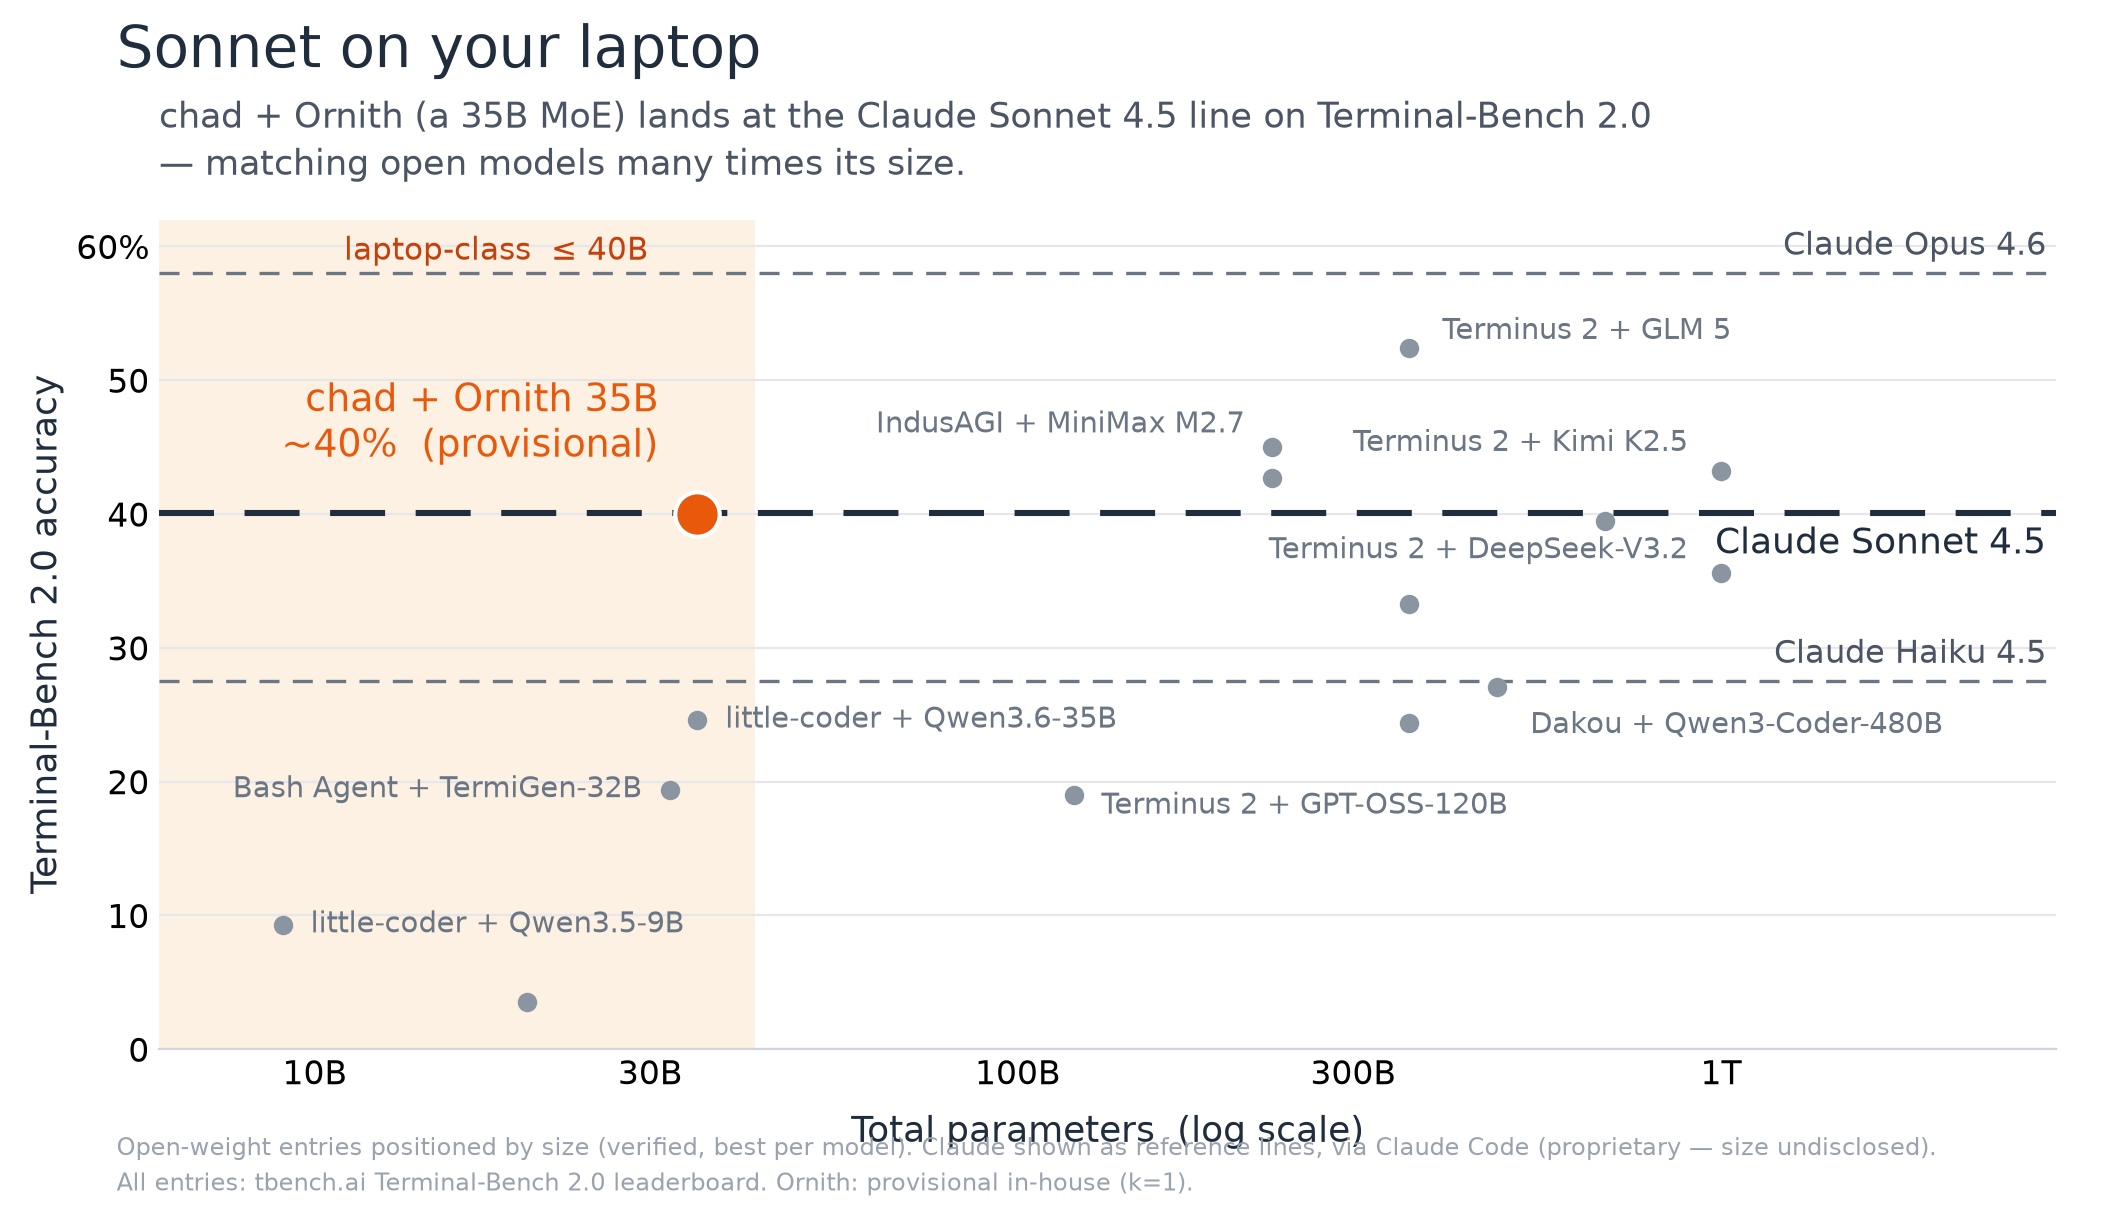
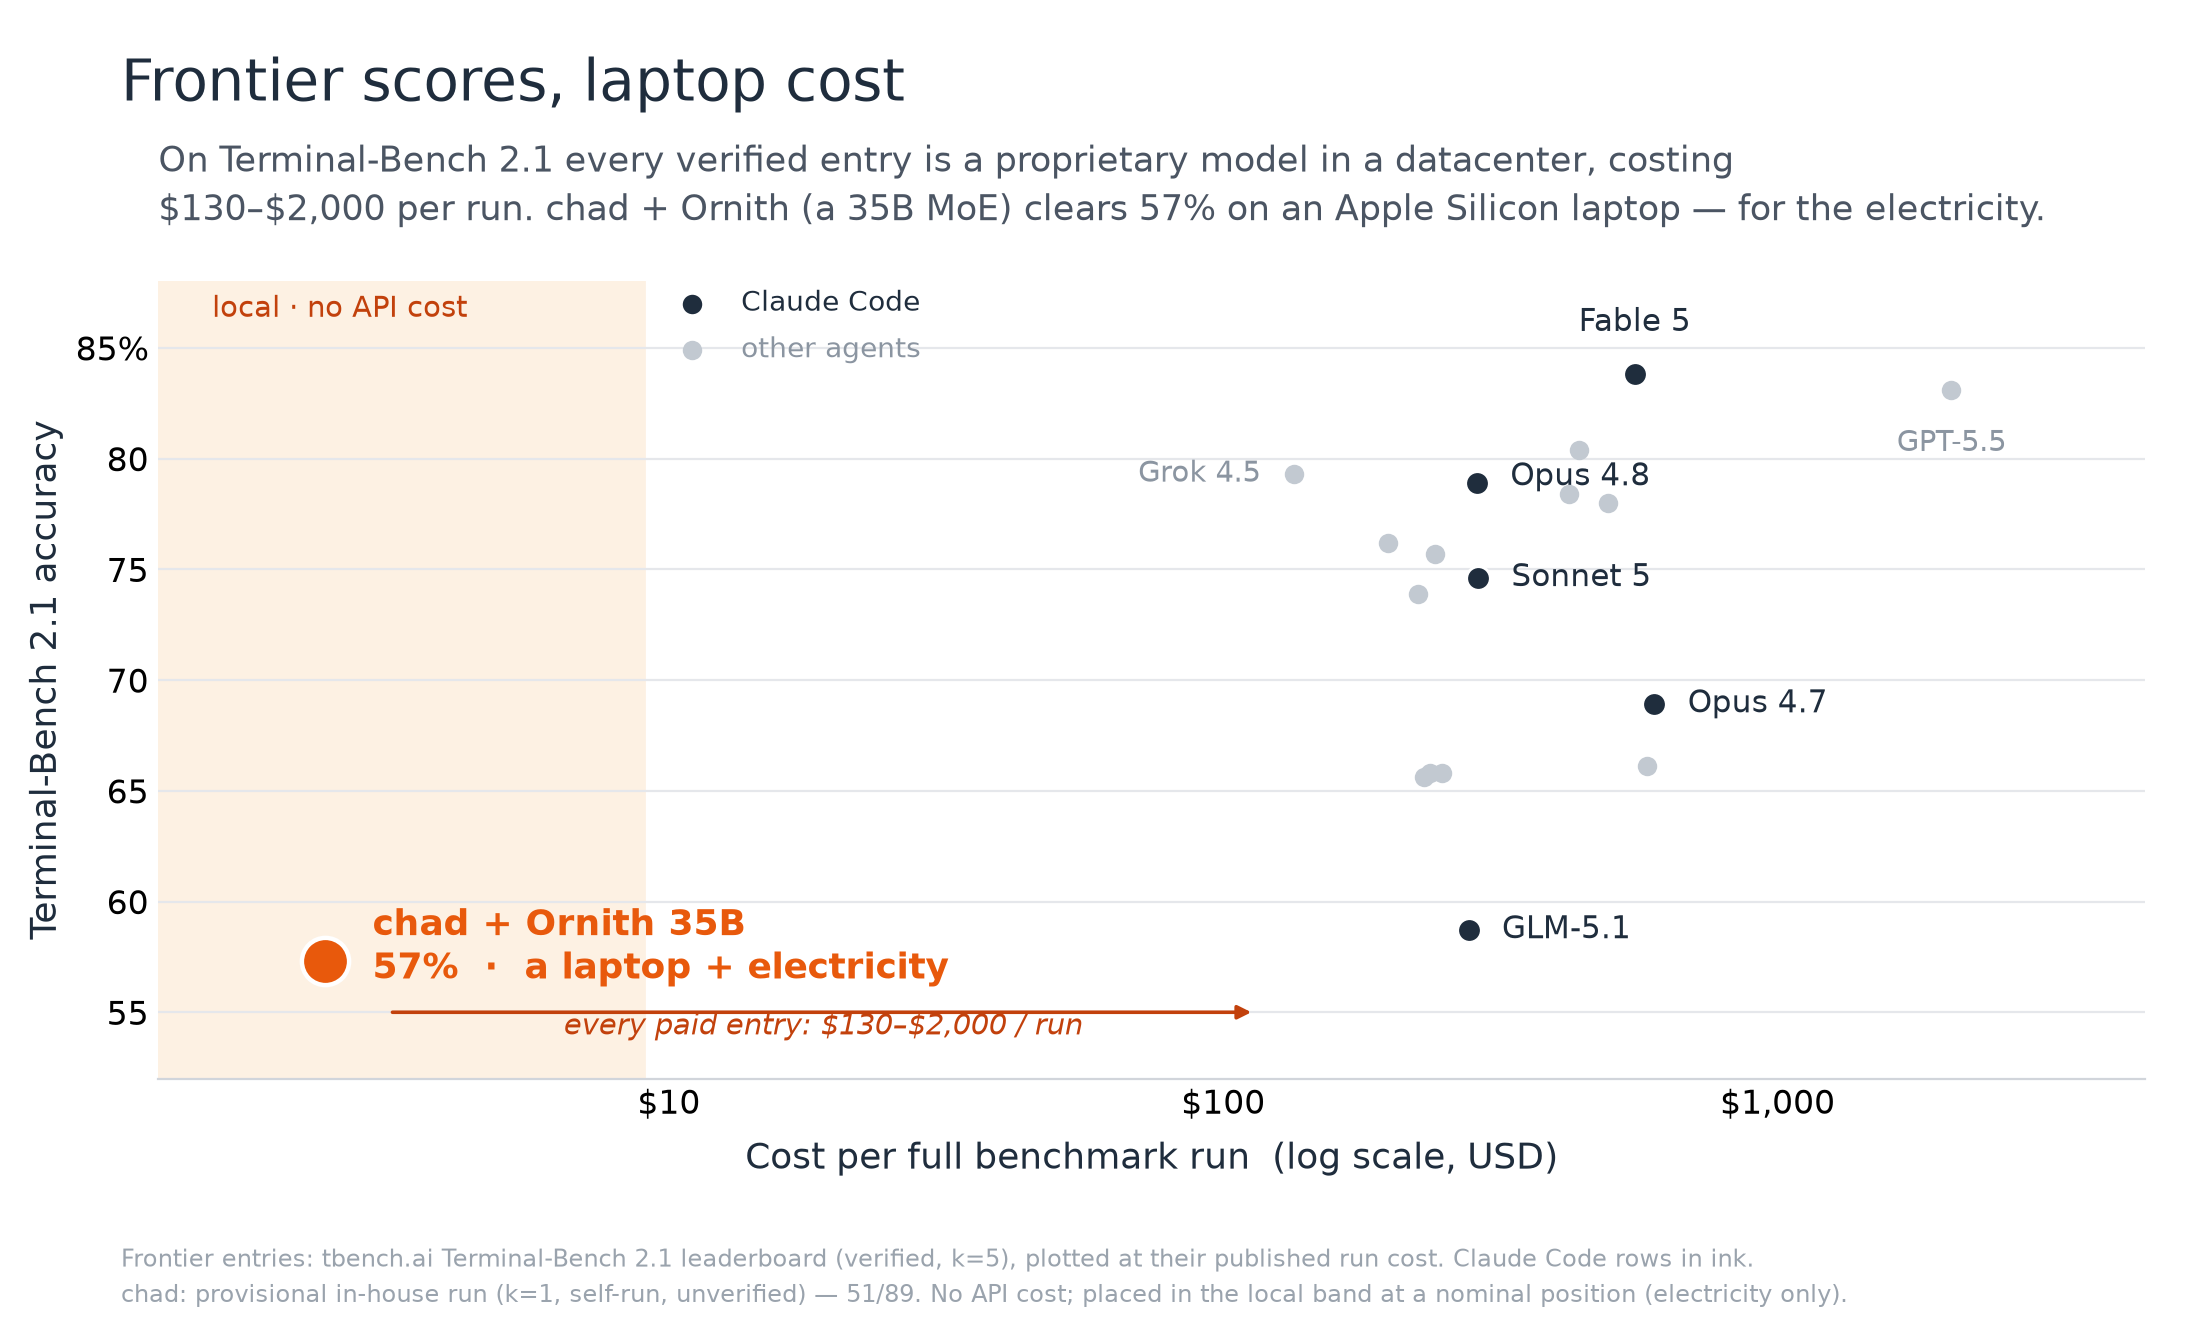
docs: reframe the benchmark chart around TB2.1 cost, not TB2.0 size
The size-vs-accuracy chart was built on the TB2.0 leaderboard's open-weight
field. TB2.1 has no open-weight entries — every verified row is a proprietary
frontier model with an undisclosed parameter count — so there's nothing to plot
on a size axis. But every entry's dollar cost per run IS published, and that's
the axis where a local model wins: chad is the only no-API-cost point on the
board.

- tbench_chart.py: rebuilt as cost-vs-accuracy from the real TB2.1 leaderboard
  (17 verified entries, Claude Code rows emphasized). chad plotted as the lone
  local point (57%, 51/89, provisional k=1) in a "no API cost" band; the paid
  field runs $130-$2,000/run.
- README: swap the placeholder ~50% for the provisional 57% (51/89); reframe the
  section from "Sonnet on your laptop" (Sonnet 5 is 74.6% on 2.1, not chad's 57%)
  to "Frontier scores, laptop cost"; fix stale TB2.0 labels to TB2.1.
- benchmarks/tb2 + docs/benchmarks: fix stale TB2.0 labels (the runner targets
  terminal-bench-2-1).

Claude-Session: https://claude.ai/code/session_01Xq8Cu1fagynEr16gqshnNh

diff --git a/docs/tbench_chart.py b/docs/tbench_chart.py
@@ -1,117 +1,137 @@
-"""Generate docs/tbench-size-vs-score.png — the Terminal-Bench 2.0 size-vs-accuracy chart.
+"""Generate docs/tbench-size-vs-score.png — the Terminal-Bench 2.1 cost-vs-accuracy chart.
 
 Run:  uv run --with matplotlib python docs/tbench_chart.py
 
+The story TB2.1 tells is cost, not size: every verified entry is a proprietary
+frontier model whose parameter count is undisclosed, so there is nothing to plot on a
+size axis — but every entry's dollar cost for a full run IS published. chad is the only
+point on the board with no API cost at all (a local MLX/llama.cpp model on an Apple
+Silicon laptop) and it clears 57% while the paid field runs $130–$2,000 per run.
+
 Data provenance (update the tables below, then re-run):
-- Open-weight points: tbench.ai Terminal-Bench 2.0 leaderboard (verified, best entry
-  per model), positioned by total parameters.
-- Claude reference lines: the leaderboard's own "Claude Code" rows ONLY — Opus 4.6,
-  Sonnet 4.5, Haiku 4.5 (proprietary — parameter count undisclosed, hence lines not
-  points). Newer Claude models (Opus 4.8, Fable 5) have no public leaderboard entry,
-  so they are deliberately not shown.
-- Ornith point: provisional in-house run (k=1) — full verified run in flight.
+- All 17 frontier entries: tbench.ai Terminal-Bench 2.1 leaderboard (verified, k=5),
+  each as (cost_usd, accuracy_%). Accuracy and cost are read straight off the board.
+- "Claude Code" rows are emphasized in ink (the harness-vs-harness reference thread);
+  every other agent is a light background point.
+- chad point: provisional in-house run (k=1, self-run, unverified) — 51/89 = 57.3%.
+  Cost is electricity only (no API/token cost); it is placed in the far-left "local"
+  band at a nominal position, NOT a measured dollar figure.
 """
 import matplotlib
 matplotlib.use("Agg")
 import matplotlib.pyplot as plt
 from matplotlib.ticker import FixedLocator, NullFormatter
 
-GRAY = "#8b95a1"
-INK = "#1f2d3d"
-ORANGE = "#e8590c"
+GRAY = "#c2c9d1"       # non-Claude frontier entries (background field)
+GRAY_LBL = "#8b95a1"
+INK = "#1f2d3d"        # Claude Code entries (emphasized)
+ORANGE = "#e8590c"     # chad
 BAND = "#fdf1e3"
 
-# (params_B, score_%, label, label_dx_pts, label_dy_pts, ha)
-# label=None → unlabeled secondary entry for the same/nearby model family.
-POINTS = [
-    (9,    9.3,  "little-coder + Qwen3.5-9B",      10,  0,  "left"),
-    (20,   3.5,  None,                              0,  0,  "left"),
-    (32,   19.4, "Bash Agent + TermiGen-32B",     -10,  0,  "right"),
-    (35,   24.6, "little-coder + Qwen3.6-35B",     10,  0,  "left"),
-    (120,  19.0, "Terminus 2 + GPT-OSS-120B",      10, -4,  "left"),
-    (230,  45.0, "IndusAGI + MiniMax M2.7",       -10,  8,  "right"),
-    (230,  42.7, None,                              0,  0,  "left"),
-    (360,  52.4, "Terminus 2 + GLM 5",             12,  6,  "left"),
-    (360,  33.3, None,                              0,  0,  "left"),
-    (360,  24.4, None,                              0,  0,  "left"),
-    (480,  27.1, "Dakou + Qwen3-Coder-480B",       12, -14, "left"),
-    (685,  39.5, None,                              0,  0,  "left"),
-    (1000, 35.6, "Terminus 2 + DeepSeek-V3.2",    -12,  8,  "right"),
-    (1000, 43.2, "Terminus 2 + Kimi K2.5",        -12, 10,  "right"),
+# TB2.1 leaderboard, verified k=5. (cost_usd, accuracy_%, label, is_claude_code)
+# label=None → plotted but unlabeled (keeps the dense field readable).
+ENTRIES = [
+    (552.67, 83.8, "Fable 5",   True),
+    (2059.19, 83.1, "GPT-5.5",  False),
+    (438.64, 80.4, None,        False),  # Terminus 2 · Fable 5
+    (134.09, 79.3, "Grok 4.5",  False),  # cheapest paid entry
+    (286.94, 78.9, "Opus 4.8",  True),
+    (421.15, 78.4, None,        False),  # Codex · GPT-5.6 Terra
+    (493.85, 78.0, None,        False),  # Terminus 2 · GPT-5.5
+    (198.05, 76.2, None,        False),  # mini-SWE-agent · Muse Spark 1.1
+    (241.45, 75.7, None,        False),  # Codex · GPT-5.6 Luna
+    (288.18, 74.6, "Sonnet 5",  True),
+    (224.44, 73.9, None,        False),  # Terminus 2 · Gemini 3 Pro
+    (599.52, 68.9, "Opus 4.7",  True),
+    (582.26, 66.1, None,        False),  # Terminus 2 · Opus 4.7
+    (247.76, 65.8, None,        False),  # Gemini CLI · Gemini 3 Pro
+    (236.49, 65.8, None,        False),  # Gemini CLI · Gemini 3.1 Pro
+    (229.99, 65.6, None,        False),  # Terminus 2 · Gemini 3.1 Pro
+    (277.14, 58.7, "GLM-5.1",   True),   # the paid floor
 ]
 
-CHAD = (35, 40.0)   # provisional — full verified run in flight
+# per-label placement: (dx_pts, dy_pts, ha, va) — hand-tuned to clear the cluster.
+LABEL_POS = {
+    "Fable 5":   (0, 13, "center", "bottom"),
+    "GPT-5.5":   (0, -14, "center", "top"),
+    "Grok 4.5":  (-12, 0, "right", "center"),   # into the open mid-left space
+    "Opus 4.8":  (12, 2, "left", "center"),
+    "Sonnet 5":  (12, 0, "left", "center"),
+    "Opus 4.7":  (12, 0, "left", "center"),
+    "GLM-5.1":   (12, 0, "left", "center"),
+}
 
-# (score_%, label, emphasized) — leaderboard "Claude Code" rows only
-REFERENCE_LINES = [
-    (58.0, "Claude Opus 4.6", False),
-    (40.1, "Claude Sonnet 4.5", True),
-    (27.5, "Claude Haiku 4.5", False),
-]
+# chad — provisional (k=1, self-run). No API cost; nominal x inside the "local" band.
+CHAD_X, CHAD_Y = 2.4, 57.3
 
-fig, ax = plt.subplots(figsize=(10.6, 6.1), dpi=200)
-fig.subplots_adjust(left=0.075, right=0.97, top=0.82, bottom=0.14)
+fig, ax = plt.subplots(figsize=(11.0, 6.7), dpi=200)
+fig.subplots_adjust(left=0.072, right=0.975, top=0.79, bottom=0.195)
 
 ax.set_xscale("log")
-ax.set_xlim(6, 3000)
-ax.set_ylim(0, 62)
+ax.set_xlim(1.2, 4600)
+ax.set_ylim(52, 88)
 
-# laptop-class band
-ax.axvspan(6, 42, color=BAND, zorder=0)
-ax.text(11, 59, "laptop-class  ≤ 40B", color="#c2410c", fontsize=11)
+# "local · no API cost" band at the far left, where chad lives alone.
+ax.axvspan(1.2, 9, color=BAND, zorder=0)
+ax.text(1.5, 86.4, "local · no API cost", color="#c2410c", fontsize=10.5)
 
-# reference lines. Label side flips per line so a label never collides with a
-# nearby point (Sonnet's sits below its line, clear of the Kimi K2.5 point).
-LABEL_BELOW = {"Claude Sonnet 4.5"}
-for score, label, emph in REFERENCE_LINES:
-    below = label in LABEL_BELOW
-    ty, va = (score - 1.0, "top") if below else (score + 0.8, "bottom")
-    if emph:
-        ax.axhline(score, color=INK, lw=2.2, ls=(0, (9, 5)), zorder=2)
-        ax.text(2900, ty, label, ha="right", va=va, color=INK, fontsize=13)
+# cost-gap annotation: chad's electricity vs the cheapest PAID entry ($134).
+ax.annotate("", xy=(115, 55.0), xytext=(CHAD_X + 0.7, 55.0),
+            arrowprops=dict(arrowstyle="-|>", color="#c2410c", lw=1.3))
+ax.text(19, 54.0, "every paid entry: \\$130–\\$2,000 / run", color="#c2410c",
+        fontsize=10.5, ha="center", style="italic")
+
+# inline legend (top-left open space, above the cluster)
+ax.plot(11, 87.0, "o", ms=8, color=INK, mec="white", mew=1.0)
+ax.text(13.5, 87.0, "Claude Code", color=INK, fontsize=10, va="center")
+ax.plot(11, 84.9, "o", ms=7, color=GRAY, mec="none")
+ax.text(13.5, 84.9, "other agents", color=GRAY_LBL, fontsize=10, va="center")
+
+# frontier field
+for cost, acc, label, claude in ENTRIES:
+    if claude:
+        ax.plot(cost, acc, "o", ms=8.5, color=INK, mec="white", mew=1.0, zorder=4)
     else:
-        ax.axhline(score, color="#6b7684", lw=1.2, ls=(0, (6, 4)), zorder=2)
-        ax.text(2900, ty, label, ha="right", va=va, color="#4b5563", fontsize=11.5)
-
-# open-weight points
-for x, y, label, dx, dy, ha in POINTS:
-    ax.plot(x, y, "o", ms=7, color=GRAY, mec="none", zorder=3)
+        ax.plot(cost, acc, "o", ms=7, color=GRAY, mec="none", zorder=3)
     if label:
-        ax.annotate(label, (x, y), textcoords="offset points", xytext=(dx, dy),
-                    ha=ha, va="center", color="#6b7684", fontsize=10.5)
+        dx, dy, ha, va = LABEL_POS[label]
+        col = INK if claude else GRAY_LBL
+        ax.annotate(label, (cost, acc), textcoords="offset points", xytext=(dx, dy),
+                    ha=ha, va=va, color=col, fontsize=11 if claude else 10.5)
 
-# chad + Ornith (label above-LEFT, inside the empty part of the laptop band — below is
-# Qwen3.6-35B's label, right is MiniMax's)
-ax.plot(*CHAD, "o", ms=16, color=ORANGE, mec="white", mew=1.5, zorder=4)
-ax.annotate("chad + Ornith 35B\n~40%  (provisional)", CHAD,
-            textcoords="offset points", xytext=(-14, 16), ha="right", va="bottom",
-            color=ORANGE, fontsize=13.5, zorder=4)
+# chad
+ax.plot(CHAD_X, CHAD_Y, "o", ms=17, color=ORANGE, mec="white", mew=1.6, zorder=6)
+ax.annotate("chad + Ornith 35B\n57%  ·  a laptop + electricity", (CHAD_X, CHAD_Y),
+            textcoords="offset points", xytext=(17, 5), ha="left", va="center",
+            color=ORANGE, fontsize=13, fontweight="bold", zorder=6)
 
 # axes cosmetics
-ax.set_xticks([10, 30, 100, 300, 1000])
-ax.set_xticklabels(["10B", "30B", "100B", "300B", "1T"], fontsize=12)
+ax.set_xticks([10, 100, 1000])
+ax.set_xticklabels(["\\$10", "\\$100", "\\$1,000"], fontsize=12)
 ax.xaxis.set_minor_locator(FixedLocator([]))
 ax.xaxis.set_minor_formatter(NullFormatter())
-ax.set_yticks(range(0, 61, 10))
-ax.set_yticklabels(["0", "10", "20", "30", "40", "50", "60%"], fontsize=12)
+ax.set_yticks(range(55, 86, 5))
+ax.set_yticklabels(["55", "60", "65", "70", "75", "80", "85%"], fontsize=12)
 ax.grid(axis="y", color="#e5e7eb", lw=0.8, zorder=1)
 for side in ("top", "right", "left"):
     ax.spines[side].set_visible(False)
 ax.spines["bottom"].set_color("#d1d5db")
 ax.tick_params(length=0)
-ax.set_xlabel("Total parameters  (log scale)", fontsize=13, color=INK, labelpad=8)
-ax.set_ylabel("Terminal-Bench 2.0 accuracy", fontsize=13, color=INK)
+ax.set_xlabel("Cost per full benchmark run  (log scale, USD)", fontsize=13,
+              color=INK, labelpad=7)
+ax.set_ylabel("Terminal-Bench 2.1 accuracy", fontsize=13, color=INK)
 
-fig.text(0.055, 0.945, "Sonnet on your laptop", fontsize=21, color=INK)
-fig.text(0.075, 0.845,
-         "chad + Ornith (a 35B MoE) lands at the Claude Sonnet 4.5 line on "
-         "Terminal-Bench 2.0\n— matching open models many times its size.",
+fig.text(0.055, 0.925, "Frontier scores, laptop cost", fontsize=21, color=INK)
+fig.text(0.072, 0.825,
+         "On Terminal-Bench 2.1 every verified entry is a proprietary model in a "
+         "datacenter, costing\n\\$130–\\$2,000 per run. chad + Ornith (a 35B MoE) clears "
+         "57% on an Apple Silicon laptop — for the electricity.",
          fontsize=12.5, color="#4b5563", va="bottom", linespacing=1.4)
-fig.text(0.055, 0.015,
-         "Open-weight entries positioned by size (verified, best per model). Claude shown as "
-         "reference lines, via Claude Code (proprietary — size undisclosed).\n"
-         "All entries: tbench.ai Terminal-Bench 2.0 leaderboard. "
-         "Ornith: provisional in-house (k=1).",
+fig.text(0.055, 0.02,
+         "Frontier entries: tbench.ai Terminal-Bench 2.1 leaderboard (verified, k=5), "
+         "plotted at their published run cost. Claude Code rows in ink.\n"
+         "chad: provisional in-house run (k=1, self-run, unverified) — 51/89. No API "
+         "cost; placed in the local band at a nominal position (electricity only).",
          fontsize=8.5, color="#9aa3ad", va="bottom", linespacing=1.5)
 
 fig.savefig("docs/tbench-size-vs-score.png")

diff --git a/README.md b/README.md
@@ -2,7 +2,7 @@
 
 [![tests](https://github.com/nathansutton/chad/actions/workflows/tests.yml/badge.svg)](https://github.com/nathansutton/chad/actions/workflows/tests.yml)
 
-<img src="docs/tbench-size-vs-score.png" width="840" alt="Terminal-Bench 2.0: accuracy vs. model size. chad + Ornith (a 35B MoE) lands on the Claude Sonnet 4.5 line, matching open models many times its size and standing alone in the laptop-class ≤40B band.">
+<img src="docs/tbench-size-vs-score.png" width="840" alt="Terminal-Bench 2.1: accuracy vs. cost per run. Every verified entry is a proprietary frontier model in a datacenter, costing $130–$2,000 per run. chad + Ornith (a 35B MoE) clears 57% on an Apple Silicon laptop for the electricity — the only no-API-cost point on the board.">
 
 > Claude can do anything, for anyone, anywhere. chad does one thing. 🗿
 > *Coding under supervision.*
@@ -49,20 +49,20 @@ instrument:
 > Real session, unedited (cold model load cut): a local 35B reasons through the failure,
 > edits the file, reruns the tests, confirms green.
 
-## Sonnet on your laptop
+## Frontier scores, laptop cost
 
 The exam is [Terminal-Bench](https://www.tbench.ai/leaderboard), the standard benchmark for
-CLI coding agents. chad won't top it — the A students are frontier models in datacenters.
-The number worth looking at is **how much capability chad wrings out of 35B parameters**:
-on Terminal-Bench 2.1, chad + Ornith lands around the **Claude Sonnet 4.5** line, matching
-open models many times its size and beating every open model in its own weight class by a
-wide margin. On a laptop, *capability per parameter* is the axis you actually compete on —
-and that's where chad + Ornith is out on the frontier alone.
+CLI coding agents. chad won't top it — every verified entry on Terminal-Bench 2.1 is a
+frontier model in a datacenter, scoring 59–84%. The number worth looking at is what that
+capability **costs**: the paid field spends **$130–$2,000 in API fees per run**. chad +
+Ornith clears **57%** on an Apple Silicon laptop, for the electricity — no API, no tokens,
+no datacenter. On a laptop, *capability per dollar* is the axis you actually compete on, and
+chad is the only point on the board that runs there.
 
-> **Placeholder number** — the full verified run is still in flight (`≈50%`, k=1). The whole
-> benchmark is **publicly reproducible from a Mac**: the exact Harbor adapter, the runner,
-> and the recipe live in [`benchmarks/tb2/`](benchmarks/tb2/README.md). Check it, don't
-> trust it.
+> **Provisional number** — `57%` (51/89, k=1, self-run, not yet leaderboard-verified). The
+> whole benchmark is **publicly reproducible from a Mac**: the exact Harbor adapter, the
+> runner, and the recipe live in [`benchmarks/tb2/`](benchmarks/tb2/README.md). Check it,
+> don't trust it.
 
 ## The bet: at this end of the report card, the harness beats the model
 
@@ -177,7 +177,7 @@ Both are covered in full in the [Configuration reference](docs/configuration.md)
   cache, the trimmable/append-only trade, and the ideas borrowed from other agents.
 - **[Throughput & performance](docs/benchmarks.md)** — prefill / decode / warm-step numbers
   you can reproduce with `chad-bench`.
-- **[Terminal-Bench 2.0 reproduction](benchmarks/tb2/README.md)** — the exact Harbor adapter
+- **[Terminal-Bench 2.1 reproduction](benchmarks/tb2/README.md)** — the exact Harbor adapter
   and runner behind the chart; serve Ornith yourself and check the number.
 - **[Configuration reference](docs/configuration.md)** — Agent Skills, MCP servers, the
   context window, every environment variable, and the safety opt-outs.

diff --git a/benchmarks/tb2/README.md b/benchmarks/tb2/README.md
@@ -1,8 +1,8 @@
-# Reproducing chad's Terminal-Bench 2.0 run
+# Reproducing chad's Terminal-Bench 2.1 run
 
-*Sonnet on your laptop — and you don't have to take our word for it.*
+*Frontier scores at laptop cost — and you don't have to take our word for it.*
 
-This directory is the complete, public kit behind the Terminal-Bench 2.0 chart in the
+This directory is the complete, public kit behind the Terminal-Bench 2.1 chart in the
 [top-level README](../../README.md): the exact Harbor agent adapter that produced the
 runs, the runner script, and the trajectory validator. Nothing here is a cleaned-up
 reenactment — `harbor_chad_tb2.py` is the artifact, published.
@@ -14,7 +14,7 @@ reenactment — `harbor_chad_tb2.py` is the artifact, published.
 
 ## What gets measured
 
-[Terminal-Bench 2.0](https://www.tbench.ai/leaderboard) is the standard benchmark for
+[Terminal-Bench 2.1](https://www.tbench.ai/leaderboard) is the standard benchmark for
 CLI coding agents: 89 tasks of real terminal work (build a Cython extension, recover a
 WAL'd SQLite database, configure a git webserver, boot a QEMU VM…), each run in its own
 Docker container and verified by the *container's end state*, with a hard per-task time

diff --git a/docs/benchmarks.md b/docs/benchmarks.md
@@ -2,7 +2,7 @@
 
 *The numbers that decide whether a local agent feels responsive — prefill speed, decode
 speed, and the per-step cost once the cache is warm. All of them are reproducible on your
-own Mac with `chad-bench`. Task pass-rates (Terminal-Bench 2.0) are reproducible too —
+own Mac with `chad-bench`. Task pass-rates (Terminal-Bench 2.1) are reproducible too —
 they have their own kit in [`benchmarks/tb2/`](../benchmarks/tb2/README.md). For the
 engineering behind them, see [Design & internals](design.md).*
 
@@ -91,9 +91,9 @@ edit-heavy work. The full reason is in
 
 ---
 
-## Task pass-rates: Terminal-Bench 2.0 (reproducible)
+## Task pass-rates: Terminal-Bench 2.1 (reproducible)
 
-Capability is measured on [Terminal-Bench 2.0](https://www.tbench.ai/leaderboard), the
+Capability is measured on [Terminal-Bench 2.1](https://www.tbench.ai/leaderboard), the
 public benchmark behind the chart in the [README](../README.md) — and the whole run is
 reproducible **from a Mac**: the exact Harbor agent adapter, the runner script, and the
 serving recipe live in [`benchmarks/tb2/`](../benchmarks/tb2/README.md). Serve the